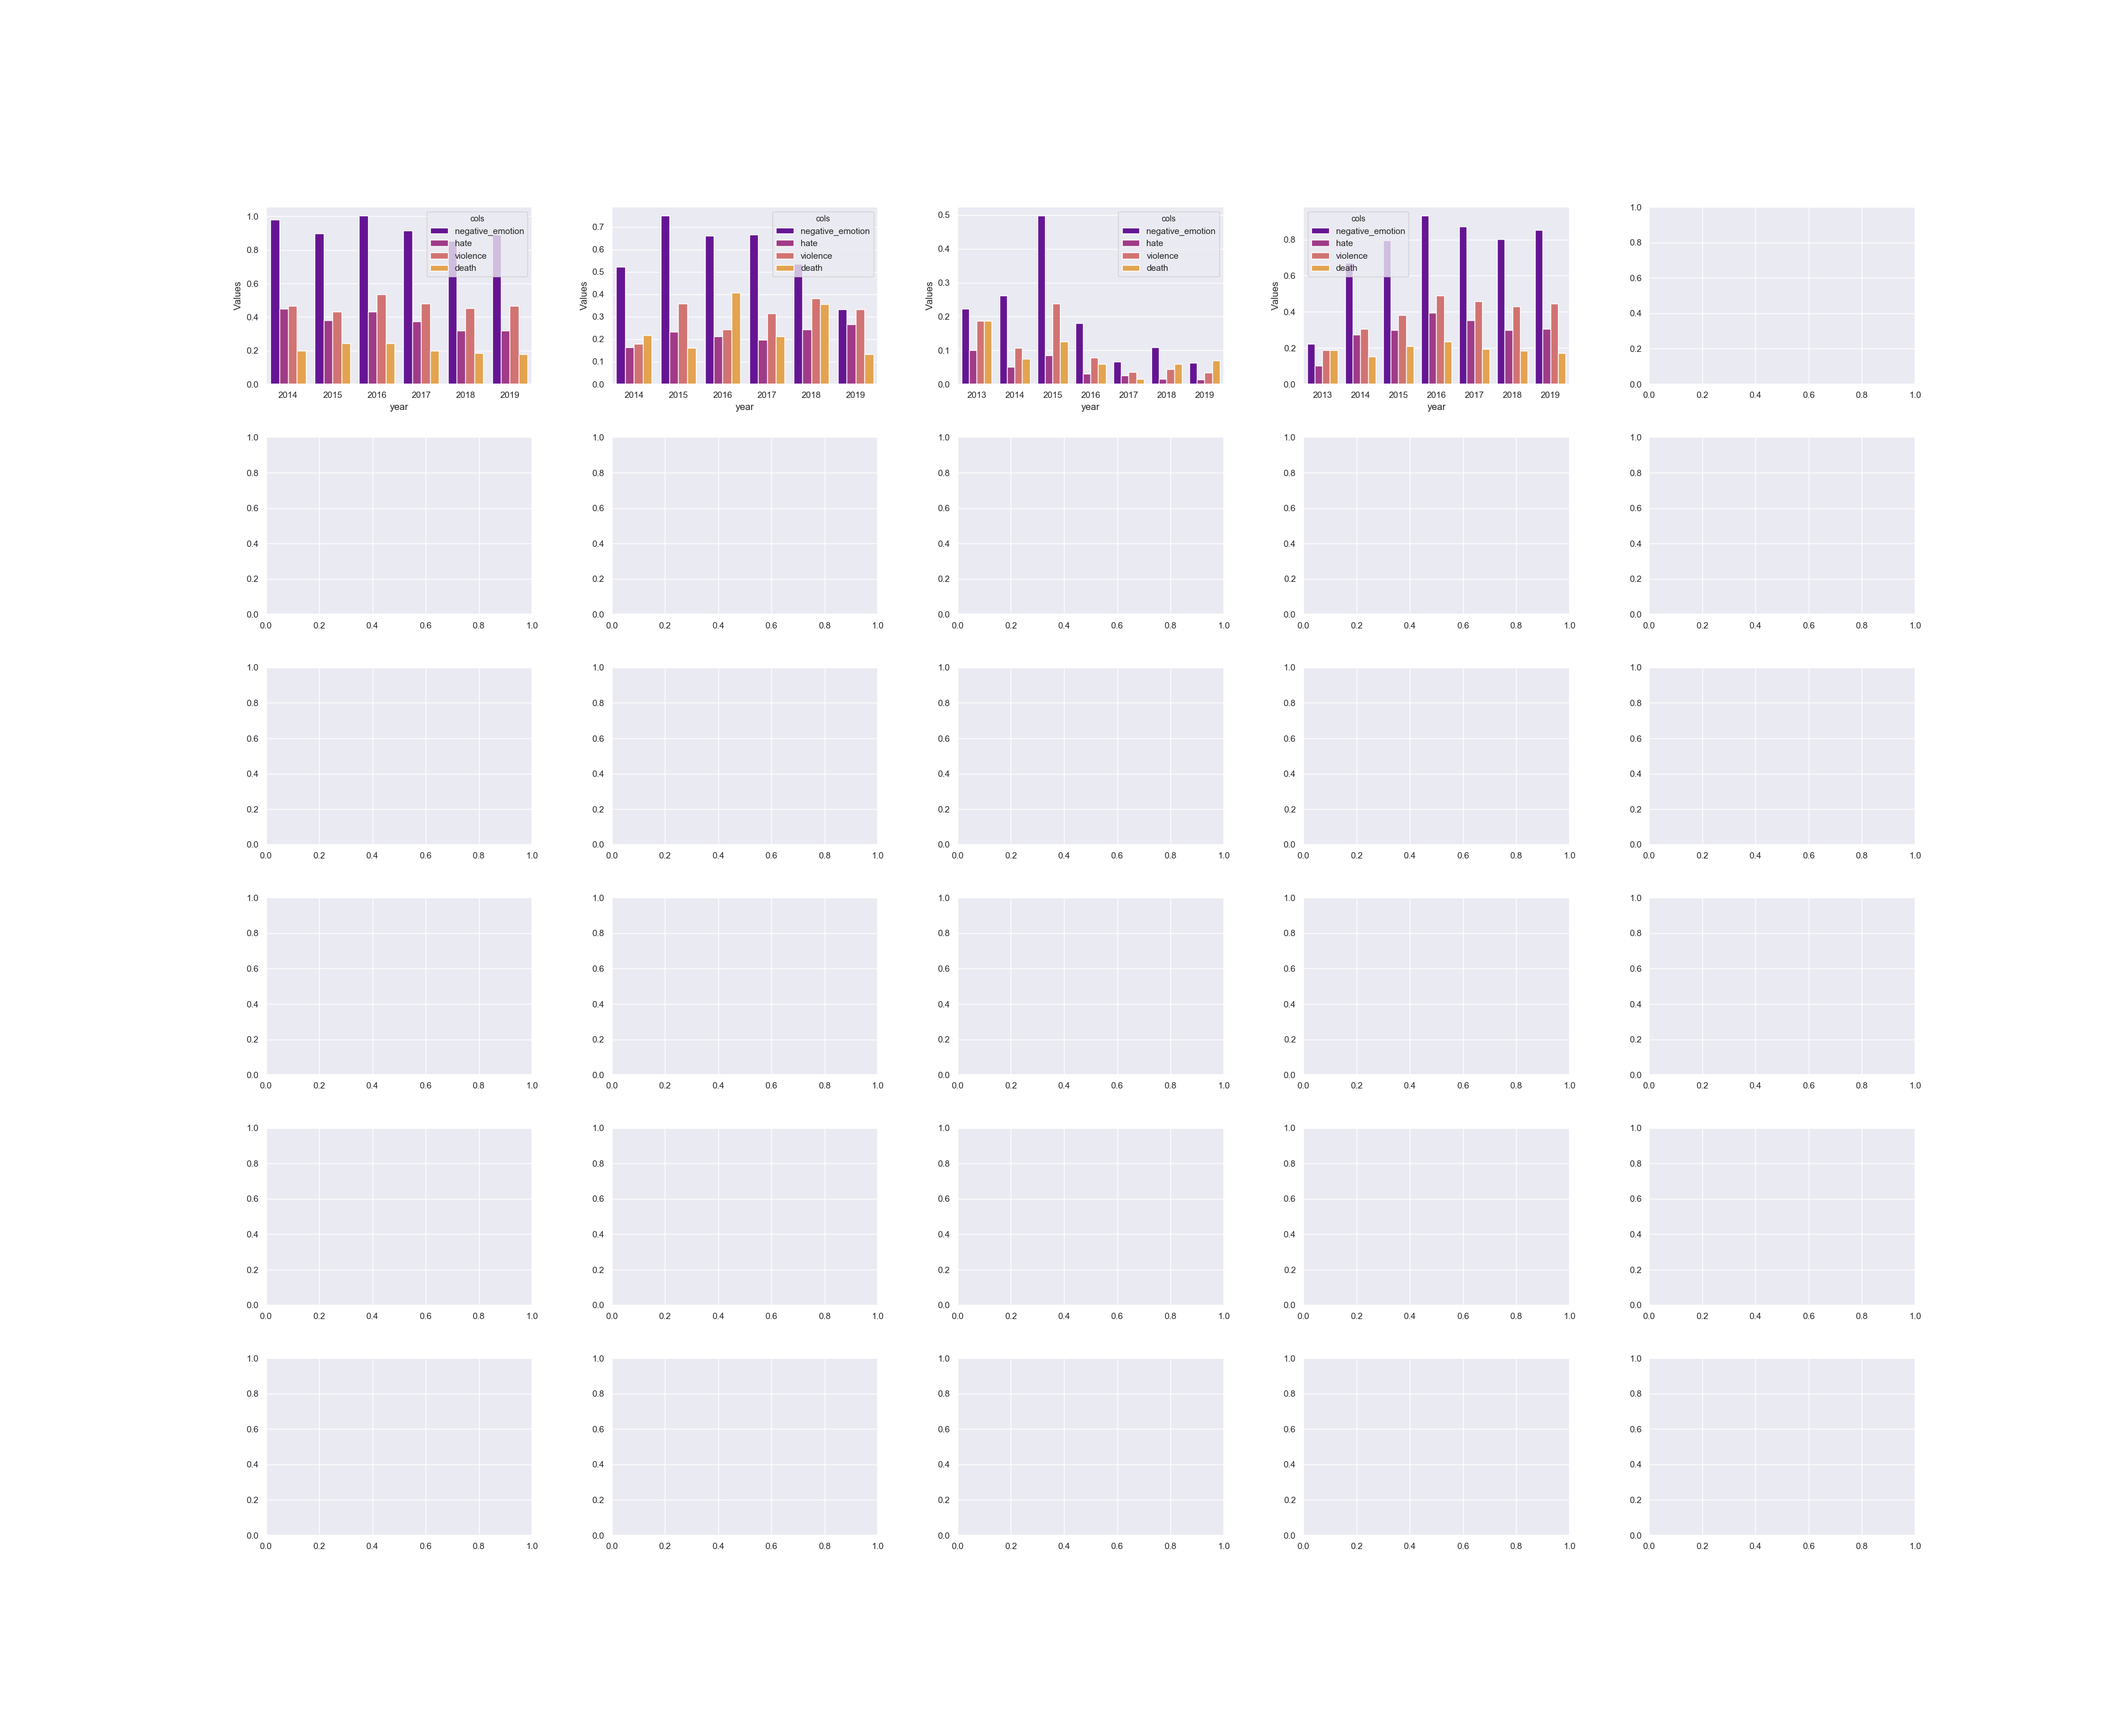
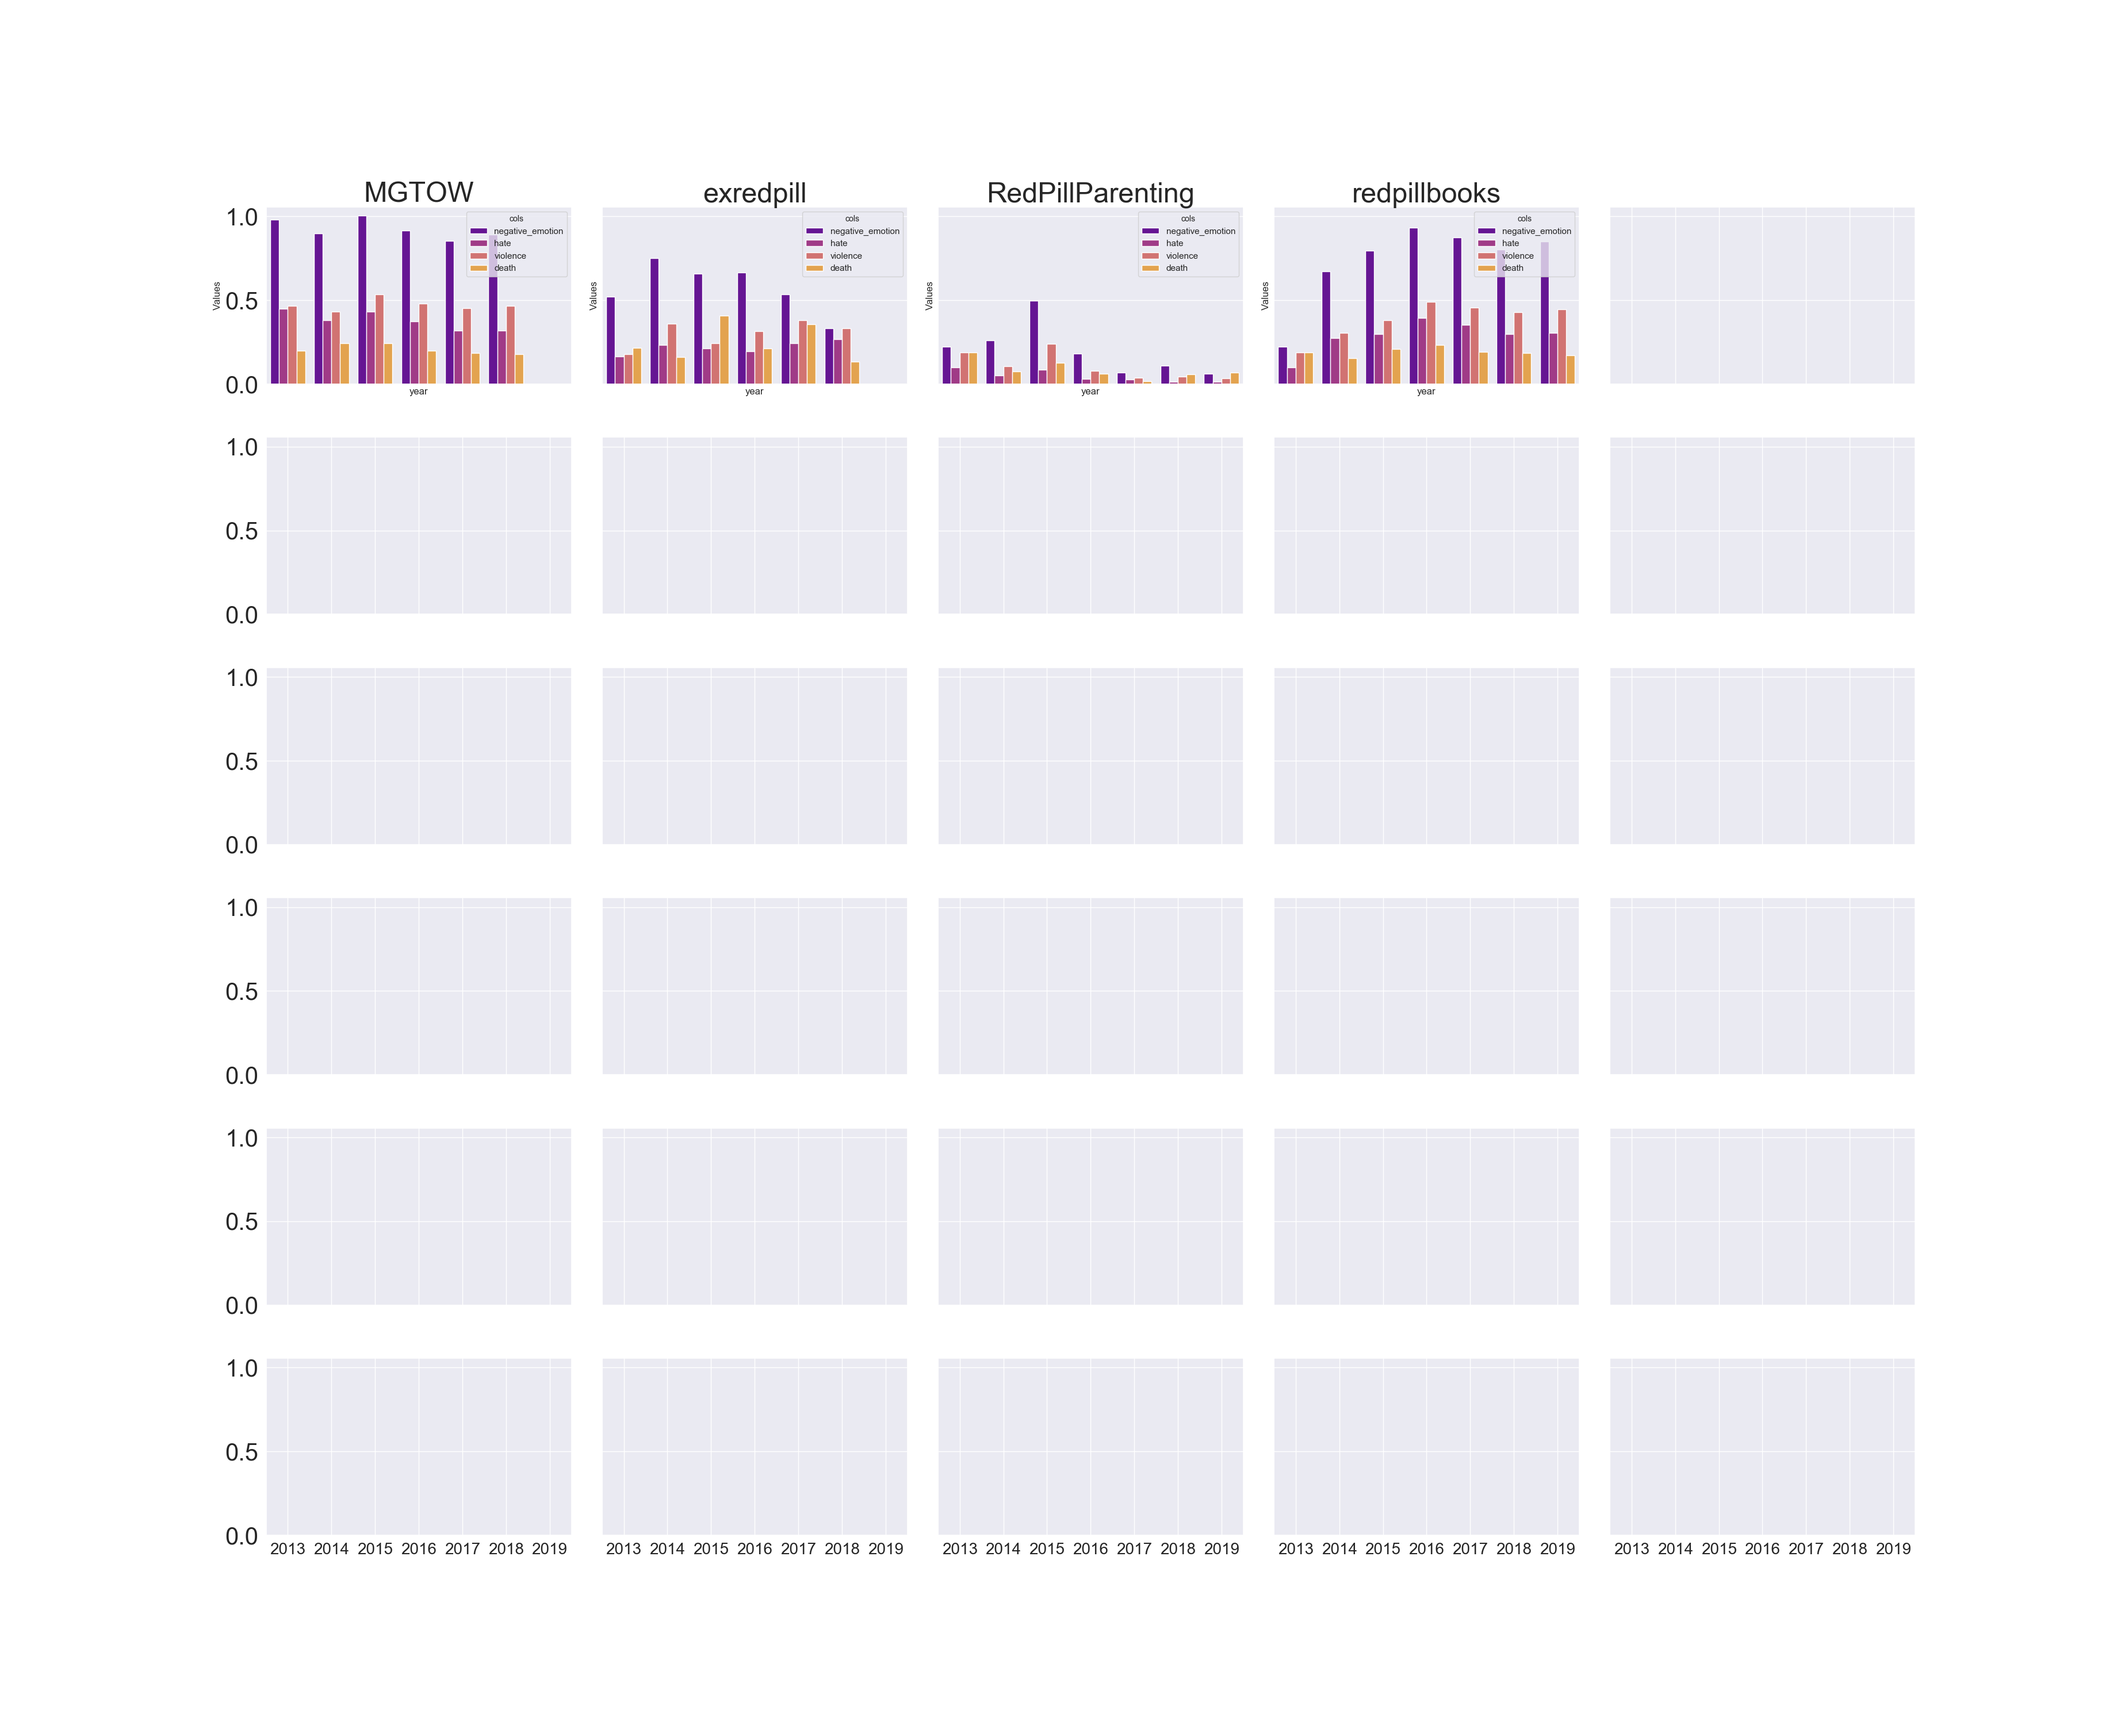
Making things updated

diff --git a/_PushshiftReddit/emotion_analysis.py b/_PushshiftReddit/emotion_analysis.py
@@ -6,6 +6,7 @@ import seaborn as sns
 import pandas as pd
 import argparse
 from empath import Empath
+
 lexicon = Empath()
 sns.set()
 
@@ -52,27 +53,30 @@ def analyse_some_emotions(dataframe, sub, emotion_list):
     series = []
     count = 0
 
-    fig, axs = plt.subplots(nrows=2, ncols=(len(emotion_list)), figsize=(30, 20), sharex=True)
-    fig.subplots_adjust(wspace=0.3, hspace=0.3)
+    fig, axs = plt.subplots(nrows=2, ncols=(len(emotion_list)), figsize=(30, 20), sharey=True)
+    #fig.subplots_adjust(wspace=0.3, hspace=0.3)
+    fig.suptitle(sub, y=0.995, fontsize=45)
     for emotion in emotion_list:
         year_serie = dataframe.groupby('year')[emotion].mean()
         month_serie = dataframe.groupby('month')[emotion].mean()
 
         axs[0, count].plot(year_serie, ('-'), color=colors[count], linewidth=6)
-        axs[0, count].set_title(f'{emotion}', fontsize=23)
+        axs[0, count].set_title(f'{emotion}', fontsize=35)
         axs[0, count].set_xlabel("Year", fontsize=20)
         axs[0, count].set_ylabel("Emotion Mean", fontsize=20)
 
         axs[1, count].bar(list(month_serie.index), list(month_serie.values), color=colors[count])
-        axs[1, count].set_title(f'{emotion}', fontsize=23)
+        axs[1, count].set_title(f'{emotion}', fontsize=35)
         axs[1, count].set_xlabel("Month", fontsize=20)
         axs[1, count].set_ylabel("Emotion Mean", fontsize=20)
-        month_list = list(month_serie.index[::10])
+        month_list = list(month_serie.index[::12])
         axs[1, count].set_xticks(month_list)
 
         series.append(year_serie)
         count += 1
 
+    plt.rc('xtick', labelsize=20)
+    plt.rc('ytick', labelsize=30)
     plt.savefig(f'{sub}_bad_emotions.png')
     plt.show()
     plt.close()
@@ -85,17 +89,20 @@ def analyse_some_emotions(dataframe, sub, emotion_list):
 
 def plot_all_reddits_emotions(multi_emotions_by_year, subreddits):
     c = 1
-    collumns = int(len(multi_emotions_by_year) / 1) + 1
-    fig, axs = plt.subplots(nrows=6, ncols=collumns, figsize=(37, 30))
-    fig.subplots_adjust(wspace=0.3, hspace=0.3)
+    collumns = int(len(multi_emotions_by_year) / 6) +1
+    fig, axs = plt.subplots(nrows=6, ncols=5, figsize=(37, 30), sharex=True, sharey=True)
+    fig.subplots_adjust(wspace=0.1, hspace=0.3)
+    plt.rc('xtick', labelsize=40)
+    plt.rc('ytick', labelsize=30)
 
-    for row in range(1):
-        for col in range(collumns):
+    for row in range(6):
+        for col in range(5):
 
-            emotions_by_year = multi_emotions_by_year[collumns*row + col]
+            emotions_by_year = multi_emotions_by_year[c-1]
             emotions = emotions_by_year.melt('year', var_name='cols', value_name='Values')
             sns.barplot(x="year", y="Values", hue='cols', data=emotions,
                         palette='plasma', ax=axs[row, col])
+            axs[row, col].set_title(str(subreddits[c-1])[5:-5], fontsize=35)
 
             if len(multi_emotions_by_year) == c:
                 plt.savefig("all_subs_bad_emotions.png")
@@ -104,7 +111,6 @@ def plot_all_reddits_emotions(multi_emotions_by_year, subreddits):
                 return None
 
             c+=1
-    #g.savefig(f"{args.dst}{sub}_emotions_by_year.png")'''
 
 
 if __name__ == '__main__':
@@ -114,20 +120,19 @@ if __name__ == '__main__':
     emotion_list = ['negative_emotion', 'hate', 'violence', 'death']
     multi_emotions_by_year = []
 
-    for s in subreddits[2:3]:
+    for s in subreddits[1:4]:
         sub = str(s)[5:-5]
-        print(sub)
 
         temp_df = pd.read_csv(f'{args.src}{sub}_comments.csv')
         add_columns(temp_df, sub, emotion_list)
 
         multi_emotions_by_year.append(analyse_some_emotions(temp_df, sub, emotion_list))
 
-        if s == subreddits[2]:
+        if s == subreddits[1]:
             df = temp_df
         else:
             df = df.append(temp_df, ignore_index=True)
 
-    multi_emotions_by_year.append(analyse_some_emotions(df, 'all_subs', emotion_list))
+    multi_emotions_by_year.append(analyse_some_emotions(df, 'All Subs', emotion_list))
     print(len(multi_emotions_by_year))
     plot_all_reddits_emotions(multi_emotions_by_year, subreddits)
